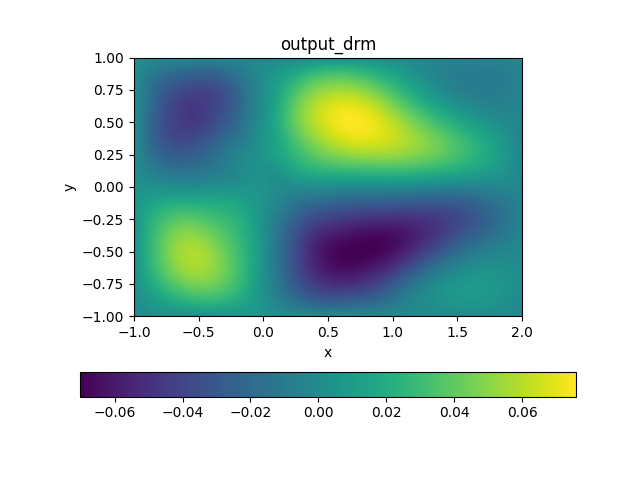
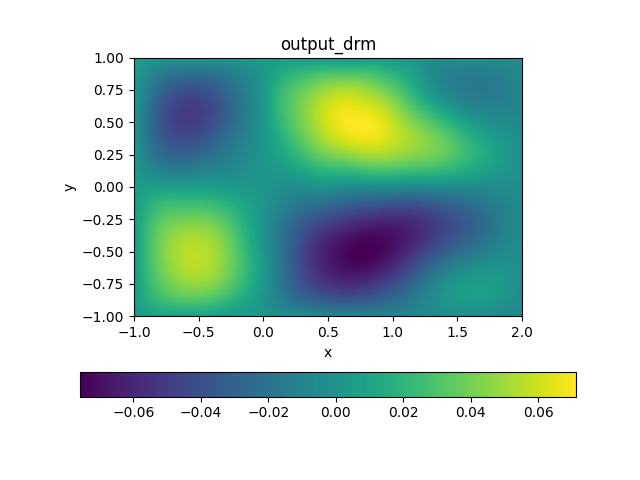
cleaned up and finalized 2d poisson implementations

diff --git a/project8/neural_network/models.py b/project8/neural_network/models.py
@@ -35,7 +35,7 @@ class NN(nn.Module):
 
     # rectangular FNN constructor (for PINN)
     @classmethod
-    def simple_linear(cls, n_in: int, n_out: int, width: int, depth: int, act_fn: nn.Module):
+    def rectangular_fnn(cls, n_in: int, n_out: int, width: int, depth: int, act_fn: nn.Module):
         layers = nn.ModuleList()
         layers.append(nn.Linear(n_in, width))
         layers.append(act_fn)
@@ -47,7 +47,7 @@ class NN(nn.Module):
 
     # DRM NN constructor
     @classmethod
-    def DRM(cls, dim_in: int, width: int, n_blocks: int, act_fn: nn.Module = mod.polyReLU(3), n_linear_drm: int = 2):
+    def drm(cls, dim_in: int, width: int, n_blocks: int, act_fn: nn.Module = mod.polyReLU(3), n_linear_drm: int = 2):
         layers = nn.ModuleList()
         if dim_in != width:
             layers.append(nn.Linear(dim_in, width))
@@ -60,49 +60,51 @@ class NN(nn.Module):
 
 
 class diff_NN(NN):
-    ''' Neural network with differential operators implemented,
+    """ Neural network with differential operators implemented,
     for convenience and efficiency writing pinn and drm loss functions.
 
     Differential operations are cached for efficiency, cache is reset at each forward pass.
 
-    Dimension indexes are used for partial derivatives, e.g. first_diff(0) is du/dx, second_diff(0, 1) is d^2u/dxdy.
-    convention: last dimension is time, so xyzt, or xyz, or xyt etc.'''
+    Dimension indexes (0 indexed) are used for partial derivatives.
+    convention: last dimension is time, so xyzt, or xyz, or xyt etc."""
     def __init__(self, layers: nn.ModuleList):
         super().__init__(layers)
         self.input = None
         self.output = None
+        # self.use_cache = True
         self.__cache = {} # only access cache through methods
 
-    def forward(self, x):
+    def forward(self, x: torch.Tensor) -> torch.Tensor:
         self.__cache = {} # reset cached differences
         self.input = x
         self.output = super().forward(x)
         return self.output
 
-    def gradient_vector(self):
+    def gradient(self) -> torch.Tensor:
+        """Returns gradient vector of the last output wrt last input"""
         if 'gradient' not in self.__cache:
             self.__cache['gradient'] = torch.autograd.grad(self.output, self.input, grad_outputs=torch.ones_like(self.output), create_graph=True)[0]
         return self.__cache['gradient']
 
-    def first_diff(self, dim_index):
-        return self.gradient_vector()[:, dim_index].unsqueeze(1)
+    def diff(self, *dim_indexes: int) -> torch.Tensor:
+        """Main method for getting partial derivatives.
+        args are dimension indexes, e.g. diff(0, 1) is u_xy."""
+        diff = self.gradient()[:, dim_indexes[0]]
+        key = 'diff'
+        for i in range(1, len(dim_indexes)):
+            key += str(dim_indexes[i-1])
+            if key not in self.__cache:
+                self.__cache[key] = torch.autograd.grad(diff, self.input, grad_outputs=torch.ones_like(diff), create_graph=True)[0]
+            diff = self.__cache[key][:, dim_indexes[i]]
+        return diff.unsqueeze(1)
 
-    def second_diff(self, dim_index_1, dim_index_2):
-        cache_entry = 'second_diffs_'+str(dim_index_1)
-        if cache_entry not in self.__cache:
-            grad = self.gradient_vector()[:, dim_index_1]
-            self.__cache[cache_entry] = torch.autograd.grad(
-                grad, self.input, grad_outputs=torch.ones_like(grad), create_graph=True
-            )[0]
-        return self.__cache[cache_entry][:, dim_index_2].unsqueeze(1)
-
-    def laplacian(self):
-        # returns laplacian of output, but the entire hessian is computed and cached
-        # possible efficiency improvement by not caching the entire hessian, but it has to be computed (I think)
+    def laplacian(self) -> torch.Tensor:
+        """Returns laplacian of output, but the entire hessian is computed and cached"""
         if 'laplacian' not in self.__cache:
             laplacian_u = torch.zeros_like(self.output)
             for i in range(self.input.shape[1]):
-                laplacian_u += self.second_diff(i, i)
+                laplacian_u += self.diff(i, i)
             self.__cache['laplacian'] = laplacian_u
-            return laplacian_u # maybe more efficient to return here instead of looking up cache
         return self.__cache['laplacian']
+
+    # maybe more (differential) operators

diff --git a/project8/DRM_2d_poisson.py b/project8/DRM_2d_poisson.py
@@ -1,27 +1,27 @@
-import neural_networks
-import convenience as cv
+import neural_network
+from project8.neural_network import convenience as cv
 import torch
-import torch.nn as nn
-import matplotlib.pyplot as plt
 
-def source4(input):
+
+def source(input):
     return torch.sin(4  * input[:, 0] * input[:, 1]).unsqueeze(1)
 
-# to change which is used:
-def source(input):
-    return source4(input)
-
-def pinn_domain_loss_nd_laplacian(model: neural_networks.models.diff_NN):
+def drm_loss_2d_poisson_domain(model: neural_network.models.diff_NN):
+    # sum/mean of 0.5 * (u_x^2 + u_y^2) - f*u in the domain
+    # eq 13 first term
+    grad = model.gradient()
     f = source(model.input)
-    return (model.laplacian() + f).pow(2).mean()
+    return torch.mean(0.5 * torch.sum(grad.pow(2), 1).unsqueeze(1) - f * model.output)
 
-def pinn_bndry_loss(model: neural_networks.models.diff_NN):
+def drm_loss_2d_poisson_bndry(model: neural_network.models.diff_NN):
+    # sum/mean of u^2 on the boundary
+    # eq 13 second term
     return model.output.pow(2).mean()
 
 device = cv.get_device()
 # init model
-act_fn = neural_networks.modules.Sin(torch.pi)
-model = neural_networks.models.diff_NN.simple_linear(2, 1, 64, 9, act_fn=act_fn)
+act_fn = neural_network.modules.Sin(torch.pi)
+model = neural_network.models.diff_NN.drm(2, 20, 4, act_fn=act_fn)
 print(model)
 model.to(device)
 model.double()
@@ -31,7 +31,6 @@ model.initialize_weights(torch.nn.init.xavier_uniform_, torch.nn.init.zeros_, we
 n_epochs = 5000
 optimizer = torch.optim.Adam(model.parameters(), lr=1e-3)
 coord_space = cv.float_parameter_space([[-1, 2], [-1, 1]], device) # domain defined here
-tmr = cv.timer()
 
 # plot source function
 f_loc = coord_space.fgrid(300)
@@ -44,19 +43,17 @@ y = y.detach().to('cpu')
 cv.plot_2d(x, y, f, title='source function', fig_id=1)
 
 # train
-tmr.start()
 for epoch in range(n_epochs):
-    model(coord_space.rand(1000).requires_grad_(True)) # forward pass on domain
-    domain_loss = pinn_domain_loss_nd_laplacian(model)
-    model(coord_space.bndry_rand(500).requires_grad_(True)) # forward pass on boundary
-    bndry_loss = pinn_bndry_loss(model)
-    loss = domain_loss + 10* bndry_loss
+    model(coord_space.rand(1000).requires_grad_(True))
+    domain_loss = drm_loss_2d_poisson_domain(model)
+    model(coord_space.bndry_rand(500).requires_grad_(True))
+    bndry_loss = drm_loss_2d_poisson_bndry(model)
+    loss = domain_loss + 100 * bndry_loss
     optimizer.zero_grad()
     loss.backward()
     optimizer.step()
     if epoch % 100 == 0:
         print(f'Epoch {epoch}, domain loss: {domain_loss.item()}, boundary loss: {bndry_loss.item()}, total: {loss.item()}')
-tmr.rr()
 
 # plot output
 grid = coord_space.fgrid(200)
@@ -66,4 +63,4 @@ f = coord_space.regrid(output)[0]
 f = f.detach().to('cpu')
 x = x.detach().to('cpu')
 y = y.detach().to('cpu')
-cv.plot_2d(x, y, f, title='output_pinn_2')
+cv.plot_2d(x, y, f, title='output_drm')

diff --git a/project8/PINN_2d_poisson.py b/project8/PINN_2d_poisson.py
@@ -1,0 +1,67 @@
+import neural_network
+from project8.neural_network import convenience as cv
+import torch
+
+
+def source(input):
+    return torch.sin(4  * input[:, 0] * input[:, 1]).unsqueeze(1)
+
+def pinn_domain_loss(model: neural_network.models.diff_NN):
+    f = source(model.input)
+    laplace = model.laplacian()
+    return (laplace + f).pow(2).mean()
+
+def pinn_bndry_loss(model: neural_network.models.diff_NN):
+    return model.output.pow(2).mean()
+
+device = cv.get_device()
+# init model
+act_fn = neural_network.modules.Sin(torch.pi)
+model = neural_network.models.diff_NN.rectangular_fnn(2, 1, 64, 9, act_fn=act_fn)
+print(model)
+model.to(device)
+model.double()
+model.initialize_weights(torch.nn.init.xavier_uniform_, torch.nn.init.zeros_, weight_init_kwargs={'gain': 0.5})
+
+# training params
+n_epochs = 5000
+optimizer = torch.optim.Adam(model.parameters(), lr=1e-3)
+coord_space = cv.float_parameter_space([[-1, 2], [-1, 1]], device) # domain defined here
+tmr = cv.timer()
+tmr2 = cv.timer()
+
+# plot source function
+f_loc = coord_space.fgrid(300)
+f = source(f_loc)
+x, y = coord_space.regrid(f_loc)
+f = coord_space.regrid(f)[0]
+f = f.detach().to('cpu')
+x = x.detach().to('cpu')
+y = y.detach().to('cpu')
+cv.plot_2d(x, y, f, title='source function', fig_id=1)
+
+# train
+tmr.start()
+for epoch in range(n_epochs):
+    model(coord_space.rand(1000).requires_grad_(True)) # forward pass on domain, input and output are saved in model instance
+    domain_loss = pinn_domain_loss(model)  # loss before other forward pass
+    model(coord_space.bndry_rand(500).requires_grad_(True)) # forward pass on boundary
+    bndry_loss = pinn_bndry_loss(model)
+    loss = domain_loss + 10* bndry_loss
+    optimizer.zero_grad()
+    loss.backward()
+    optimizer.step()
+    print()
+    if epoch % 100 == 0:
+        print(f'Epoch {epoch}, domain loss: {domain_loss.item()}, boundary loss: {bndry_loss.item()}, total: {loss.item()}')
+tmr.rr()
+
+# plot output
+grid = coord_space.fgrid(200)
+output = model(grid)
+x, y = coord_space.regrid(grid)
+f = coord_space.regrid(output)[0]
+f = f.detach().to('cpu')
+x = x.detach().to('cpu')
+y = y.detach().to('cpu')
+cv.plot_2d(x, y, f, title='output_pinn_2')

diff --git a/tests/test_models.py b/tests/test_models.py
@@ -1,0 +1,46 @@
+from project8 import neural_network
+import torch
+import matplotlib.pyplot as plt
+
+import pytest
+
+def train(model) -> float:
+    device = 'cpu'
+    model.to(device)
+    model.initialize_weights(torch.nn.init.xavier_uniform_, torch.nn.init.zeros_, weight_init_kwargs={'gain': 0.1})
+    x = torch.linspace(0, 2*3.14159, 128).to(device).unsqueeze(1)
+    target = torch.sin(2*x)
+    n_epochs = 5000
+    optimizer = torch.optim.Adam(model.parameters(), lr=1e-3)
+    criterion = torch.nn.MSELoss()
+    best = 1e10
+    for epoch in range(n_epochs):
+        x.requires_grad = True
+        optimizer.zero_grad()
+        output = model(x)
+        loss = criterion(output, target)
+        if loss.item() < best:
+            best = loss.item()
+        loss.backward()
+        optimizer.step()
+    return best
+
+def test_drm() -> None:
+    model = neural_network.models.NN.drm(1, 5, 3)
+    loss = train(model)
+    assert loss < 0.5
+
+def test_pinn() -> None:
+    model = neural_network.models.NN.rectangular_fnn(1, 1, 32, 5, torch.nn.ReLU())
+    loss = train(model)
+    assert loss < 0.5
+
+def test_diff_drm() -> None:
+    model = neural_network.models.diff_NN.drm(1, 5, 3)
+    loss = train(model)
+    assert loss < 0.5
+
+def test_diff_pinn() -> None:
+    model = neural_network.models.diff_NN.rectangular_fnn(1, 1, 32, 5, torch.nn.ReLU())
+    loss = train(model)
+    assert loss < 0.5

diff --git a/project8/neural_network/convenience.py b/project8/neural_network/convenience.py
@@ -6,7 +6,7 @@ import matplotlib.pyplot as plt
 from warnings import warn
 import time
 
-def get_device(override: str = None):
+def get_device(override: str = None) -> str:
     if override is not None:
         return override
     device = 'cuda:0' if torch.cuda.is_available() else 'cpu'
@@ -14,7 +14,7 @@ def get_device(override: str = None):
         warn('CUDA/ROCm not available, Using CPU.')
     return device
 
-def plot_2d(x, y, f, title, fig_id=0, filename=None):
+def plot_2d(x, y, f, title, fig_id=0, filename=None) -> None:
     if filename is None:
         filename = title + '.png'
     plt.figure(fig_id)
@@ -30,7 +30,7 @@ def plot_2d(x, y, f, title, fig_id=0, filename=None):
         plt.colorbar(orientation='horizontal')
     plt.savefig('plots/'+filename)
 
-def plot_plane(x, y, f, title, fig_id=0, filename=None):
+def plot_plane(x, y, f, title, fig_id=0, filename=None) -> None:
     if filename is None:
         filename = title + '.png'
     fig = plt.figure(fig_id)
@@ -139,6 +139,7 @@ class float_parameter_space:
         return rand
 
 class timer:
+    """Simple timer class"""
     def __init__(self):
         self.t_init = time.time()
         self.t_start = 0

diff --git a/project8/neural_network/modules.py b/project8/neural_network/modules.py
@@ -2,7 +2,7 @@ import torch
 import torch.nn as nn
 
 class polyReLU(nn.Module):
-    # ReLU^n activation function (for DRM)
+    """ReLU^n activation function (for DRM)"""
     def __init__(self, n: int):
         super().__init__()
         self.n = n
@@ -14,7 +14,7 @@ class polyReLU(nn.Module):
         return 'polyReLU(n=' + str(self.n) + ')'
 
 class DRM_block(nn.Module):
-    # DRM block as described in deep ritz paper, defaults are also in paper
+    """DRM block as described in deep ritz paper, defaults are also in paper"""
     def __init__(self, width: int, act_fn: nn.Module=polyReLU(3), n_linear: int = 2):
         super().__init__()
         self.layers = nn.ModuleList()
@@ -35,6 +35,7 @@ class DRM_block(nn.Module):
         return out + '   ' + '+ block input (skip/residual connection)'
 
 class Sin(nn.Module):
+    """Sin activation function"""
     def __init__(self, multiplier=1):
         super().__init__()
         self.multiplier = multiplier

diff --git a/old/old_nn_stuff/newDeepRitz.py b/old/old_nn_stuff/newDeepRitz.py
@@ -43,7 +43,7 @@ def drm_loss_2d_poisson_bndry(bndry_output):
 device = cv.get_device()
 # init model
 act_fn = neural_networks.modules.Sin(torch.pi)
-model = neural_networks.models.NN.DRM(2, 20, 4, act_fn=act_fn)
+model = neural_networks.models.NN.drm(2, 20, 4, act_fn=act_fn)
 # model = neural_networks.models.NN.simple_linear(2, 1, 32, 9, act_fn=act_fn)
 print(model)
 model.to(device)

diff --git a/old/old_nn_stuff/PINN.py b/old/old_nn_stuff/PINN.py
@@ -53,7 +53,7 @@ def pinn_bndry_loss(bndry_output: torch.Tensor):
 device = cv.get_device()
 # init model
 act_fn = neural_networks.modules.Sin(torch.pi)
-model = neural_networks.models.NN.simple_linear(2, 1, 64, 9, act_fn=act_fn)
+model = neural_networks.models.NN.rectangular_fnn(2, 1, 64, 9, act_fn=act_fn)
 print(model)
 model.to(device)
 model.double()
